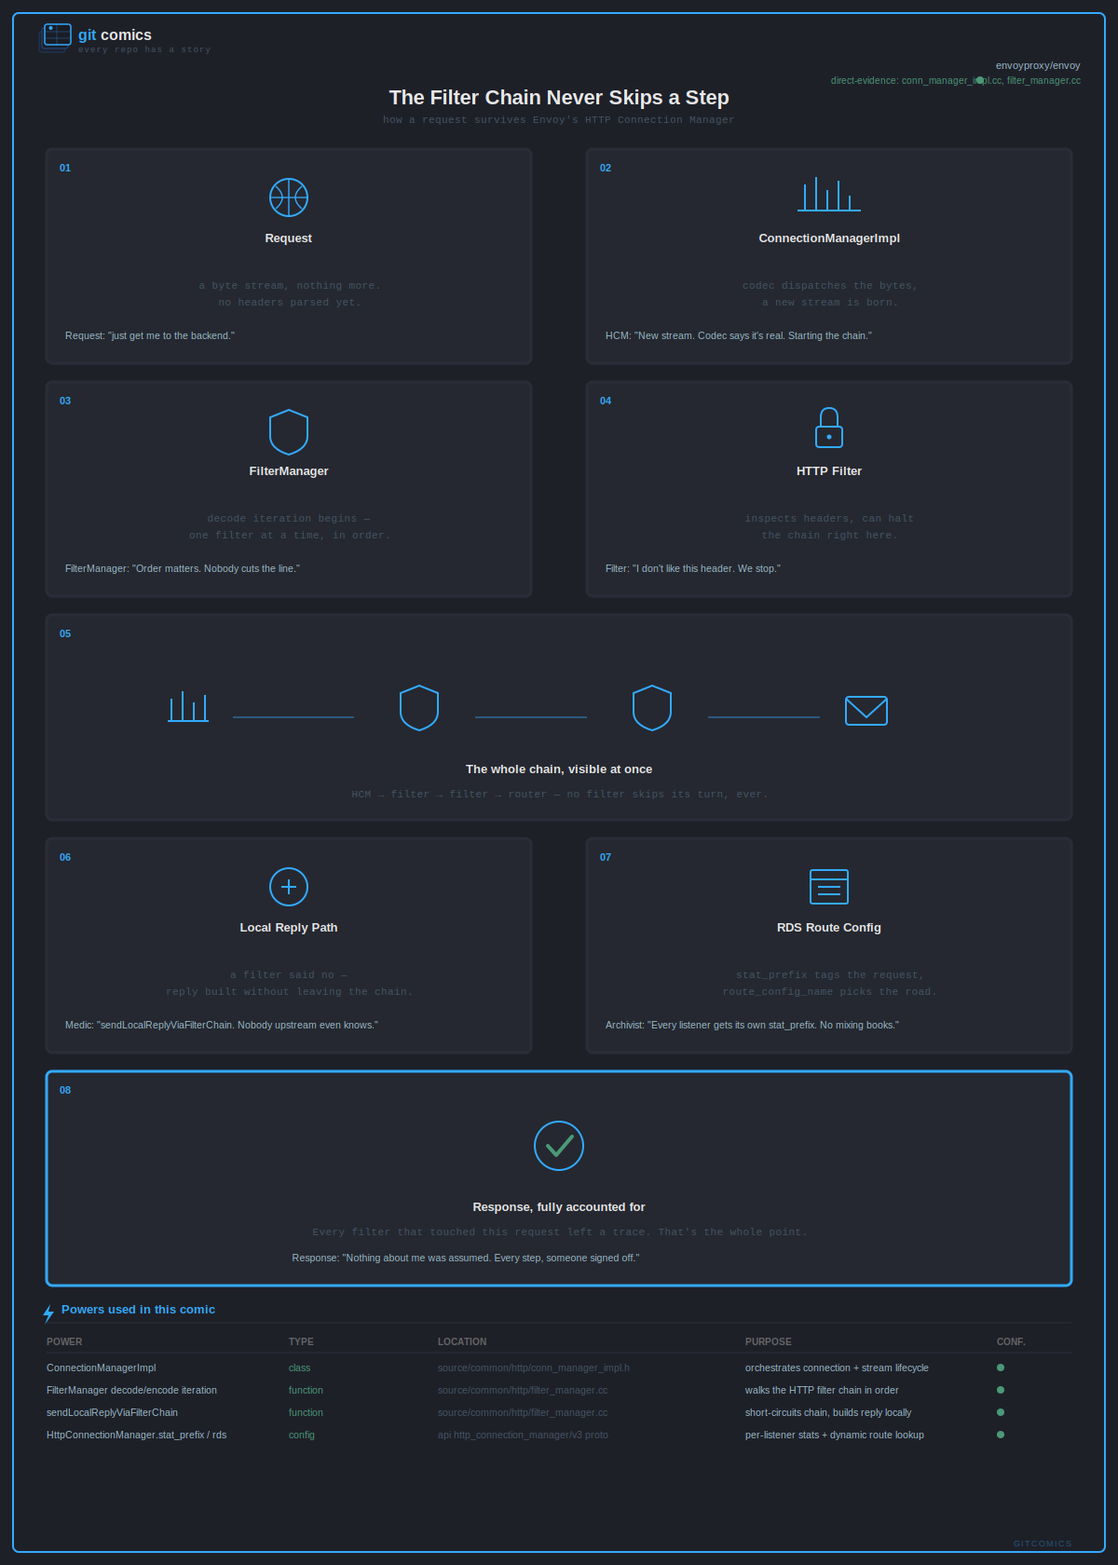
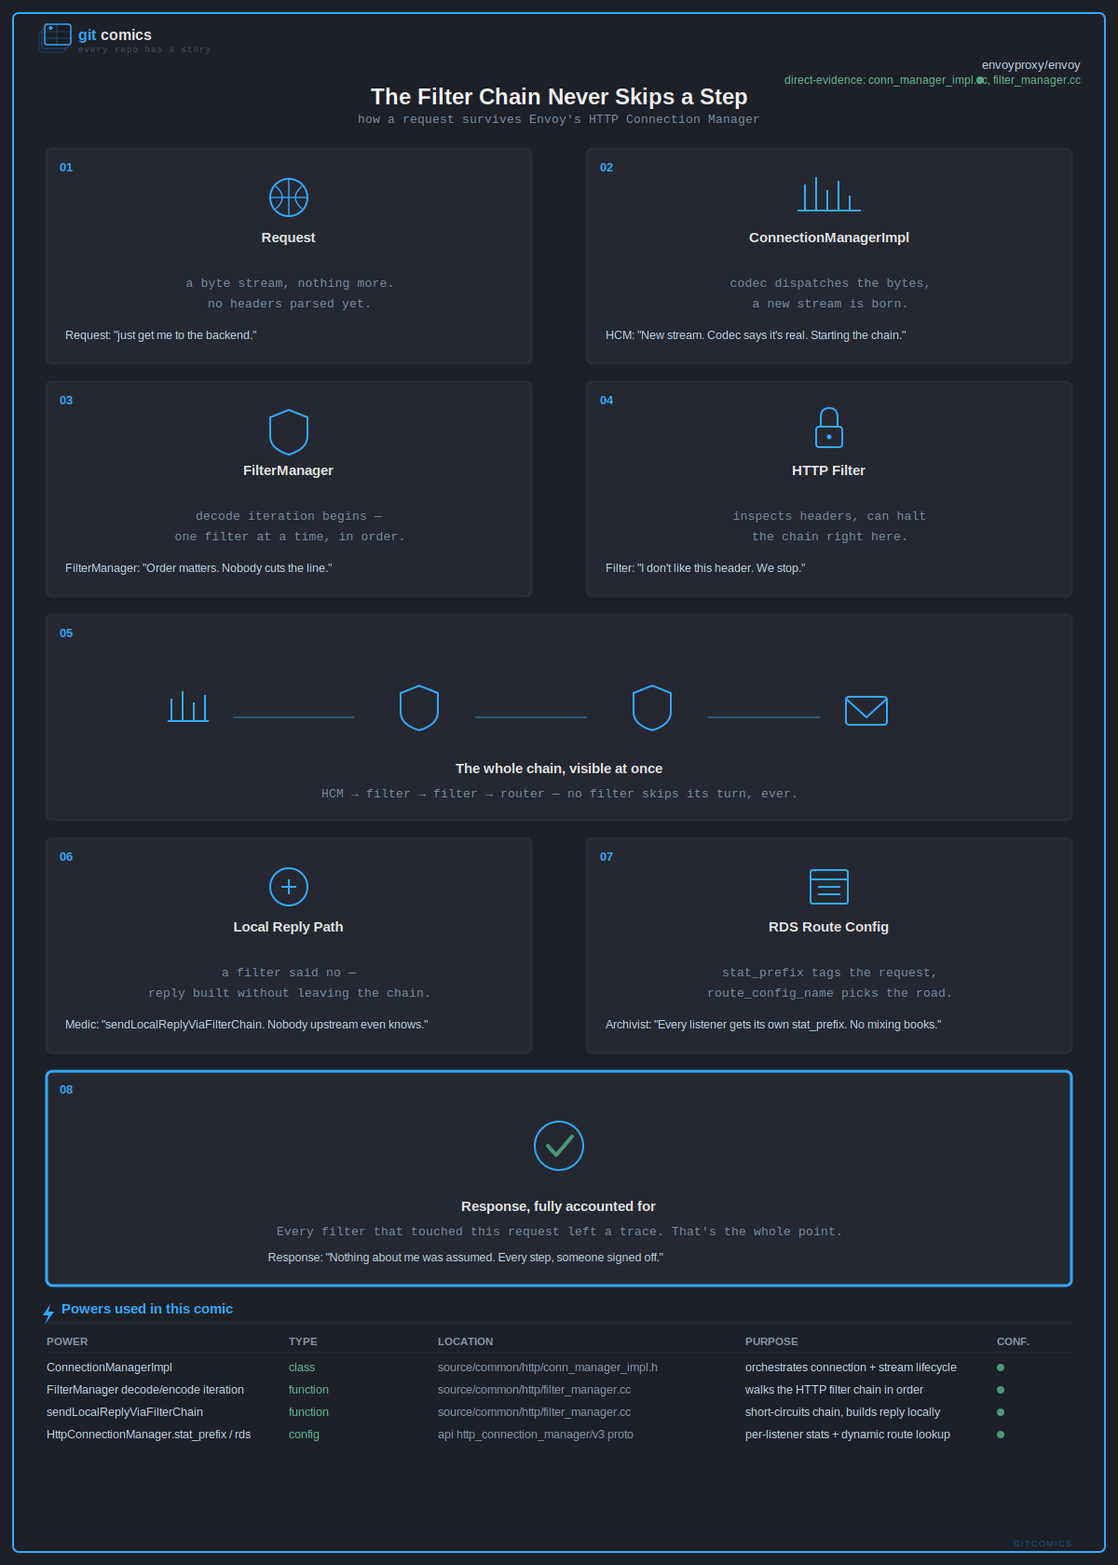
improve comic typography, document example file usage in README

diff --git a/examples/envoy_comic.html b/examples/envoy_comic.html
@@ -7,7 +7,7 @@
   body { margin:0; padding:32px; background:#12141a; display:flex; flex-direction:column; align-items:center; font-family:Arial,Helvetica,sans-serif; }
   .comic-frame { max-width:900px; width:100%; box-shadow:0 20px 60px rgba(0,0,0,0.5); border-radius:8px; overflow:hidden; }
   .comic-frame svg { width:100%; height:auto; display:block; }
-  footer { color:#445566; font-size:11px; margin-top:16px; font-family:'Courier New',monospace; }
+  footer { color:#8899aa; font-size:12px; margin-top:16px; font-family:'Courier New',monospace; }
 </style>
 </head>
 <body>
@@ -43,13 +43,13 @@
 
   <!-- Meta tags -->
   <g transform="translate(0,74)" font-family="Arial,Helvetica,sans-serif">
-    <text x="1160" y="0" text-anchor="end" font-size="11" fill="#9bbccc">envoyproxy/envoy</text>
-    <circle cx="1052" cy="12" r="4" fill="#4a9977"/><text x="1160" y="16" text-anchor="end" font-size="10" fill="#4a9977">direct-evidence: conn_manager_impl.cc, filter_manager.cc</text>
+    <text x="1160" y="0" text-anchor="end" font-size="13" fill="#c3d9e8">envoyproxy/envoy</text>
+    <circle cx="1052" cy="12" r="4" fill="#4a9977"/><text x="1160" y="16" text-anchor="end" font-size="12" fill="#5fbd93">direct-evidence: conn_manager_impl.cc, filter_manager.cc</text>
   </g>
 
   <!-- Title -->
-  <text x="600" y="112" text-anchor="middle" font-size="22" font-weight="800" fill="#e8e8e8">The Filter Chain Never Skips a Step</text>
-  <text x="600" y="132" text-anchor="middle" font-size="11" fill="#445566" font-family="Courier New,monospace">how a request survives Envoy's HTTP Connection Manager</text>
+  <text x="600" y="112" text-anchor="middle" font-size="24" font-weight="800" fill="#f2f2f2">The Filter Chain Never Skips a Step</text>
+  <text x="600" y="132" text-anchor="middle" font-size="13" fill="#7a8fa3" font-family="Courier New,monospace">how a request survives Envoy's HTTP Connection Manager</text>
 
   <!-- ===================== PANEL GRID ===================== -->
   <!-- Grid geometry: 2-col rows for 1-4, full-width row 5, 2-col rows 6-7, full-width row 8 -->
@@ -57,19 +57,19 @@
   <!-- PANEL 1 -->
   <g transform="translate(50,160)">
     <rect width="520" height="230" rx="6" fill="#252830" stroke="#2a2d38" stroke-width="3"/>
-    <text x="14" y="24" font-size="11" fill="#33aaff" font-weight="700">01</text>
+    <text x="14" y="24" font-size="13" fill="#33aaff" font-weight="700">01</text>
     <circle cx="260" cy="52" r="20" fill="none" stroke="#33aaff" stroke-width="2"/>
     <path d="M 240 52 L 280 52 M 260 32 L 260 72 M 246 40 Q 260 52 246 64 M 274 40 Q 260 52 274 64" stroke="#33aaff" stroke-width="1.4" fill="none"/>
-    <text x="260" y="100" text-anchor="middle" font-size="13" fill="#e8e8e8" font-weight="700">Request</text>
-    <text x="260" y="150" text-anchor="middle" font-size="11" fill="#445566" font-family="Courier New,monospace">a byte stream, nothing more.</text>
-    <text x="260" y="168" text-anchor="middle" font-size="11" fill="#445566" font-family="Courier New,monospace">no headers parsed yet.</text>
-    <text x="20" y="204" font-size="10.5" fill="#9bbccc">Request: "just get me to the backend."</text>
+    <text x="260" y="100" text-anchor="middle" font-size="15" fill="#e8e8e8" font-weight="700">Request</text>
+    <text x="260" y="148" text-anchor="middle" font-size="13" fill="#7a8fa3" font-family="Courier New,monospace">a byte stream, nothing more.</text>
+    <text x="260" y="170" text-anchor="middle" font-size="13" fill="#7a8fa3" font-family="Courier New,monospace">no headers parsed yet.</text>
+    <text x="20" y="204" font-size="12.5" fill="#c3d9e8">Request: "just get me to the backend."</text>
   </g>
 
   <!-- PANEL 2 -->
   <g transform="translate(630,160)">
     <rect width="520" height="230" rx="6" fill="#252830" stroke="#2a2d38" stroke-width="3"/>
-    <text x="14" y="24" font-size="11" fill="#33aaff" font-weight="700">02</text>
+    <text x="14" y="24" font-size="13" fill="#33aaff" font-weight="700">02</text>
     <g stroke="#33aaff" stroke-width="2" fill="none">
       <line x1="234" y1="66" x2="234" y2="38"/>
       <line x1="246" y1="66" x2="246" y2="30"/>
@@ -78,40 +78,40 @@
       <line x1="282" y1="66" x2="282" y2="50"/>
       <line x1="226" y1="66" x2="294" y2="66"/>
     </g>
-    <text x="260" y="100" text-anchor="middle" font-size="13" fill="#e8e8e8" font-weight="700">ConnectionManagerImpl</text>
-    <text x="260" y="150" text-anchor="middle" font-size="11" fill="#445566" font-family="Courier New,monospace">codec dispatches the bytes,</text>
-    <text x="260" y="168" text-anchor="middle" font-size="11" fill="#445566" font-family="Courier New,monospace">a new stream is born.</text>
-    <text x="20" y="204" font-size="10.5" fill="#9bbccc">HCM: "New stream. Codec says it's real. Starting the chain."</text>
+    <text x="260" y="100" text-anchor="middle" font-size="15" fill="#e8e8e8" font-weight="700">ConnectionManagerImpl</text>
+    <text x="260" y="148" text-anchor="middle" font-size="13" fill="#7a8fa3" font-family="Courier New,monospace">codec dispatches the bytes,</text>
+    <text x="260" y="170" text-anchor="middle" font-size="13" fill="#7a8fa3" font-family="Courier New,monospace">a new stream is born.</text>
+    <text x="20" y="204" font-size="12.5" fill="#c3d9e8">HCM: "New stream. Codec says it's real. Starting the chain."</text>
   </g>
 
   <!-- PANEL 3 -->
   <g transform="translate(50,410)">
     <rect width="520" height="230" rx="6" fill="#252830" stroke="#2a2d38" stroke-width="3"/>
-    <text x="14" y="24" font-size="11" fill="#33aaff" font-weight="700">03</text>
+    <text x="14" y="24" font-size="13" fill="#33aaff" font-weight="700">03</text>
     <path d="M 260 30 L 280 38 L 280 58 Q 280 72 260 78 Q 240 72 240 58 L 240 38 Z" fill="none" stroke="#33aaff" stroke-width="2"/>
-    <text x="260" y="100" text-anchor="middle" font-size="13" fill="#e8e8e8" font-weight="700">FilterManager</text>
-    <text x="260" y="150" text-anchor="middle" font-size="11" fill="#445566" font-family="Courier New,monospace">decode iteration begins —</text>
-    <text x="260" y="168" text-anchor="middle" font-size="11" fill="#445566" font-family="Courier New,monospace">one filter at a time, in order.</text>
-    <text x="20" y="204" font-size="10.5" fill="#9bbccc">FilterManager: "Order matters. Nobody cuts the line."</text>
+    <text x="260" y="100" text-anchor="middle" font-size="15" fill="#e8e8e8" font-weight="700">FilterManager</text>
+    <text x="260" y="148" text-anchor="middle" font-size="13" fill="#7a8fa3" font-family="Courier New,monospace">decode iteration begins —</text>
+    <text x="260" y="170" text-anchor="middle" font-size="13" fill="#7a8fa3" font-family="Courier New,monospace">one filter at a time, in order.</text>
+    <text x="20" y="204" font-size="12.5" fill="#c3d9e8">FilterManager: "Order matters. Nobody cuts the line."</text>
   </g>
 
   <!-- PANEL 4 -->
   <g transform="translate(630,410)">
     <rect width="520" height="230" rx="6" fill="#252830" stroke="#2a2d38" stroke-width="3"/>
-    <text x="14" y="24" font-size="11" fill="#33aaff" font-weight="700">04</text>
+    <text x="14" y="24" font-size="13" fill="#33aaff" font-weight="700">04</text>
     <rect x="246" y="48" width="28" height="22" rx="3" fill="none" stroke="#33aaff" stroke-width="2"/>
     <path d="M 251 48 L 251 38 Q 251 28 260 28 Q 269 28 269 38 L 269 48" fill="none" stroke="#33aaff" stroke-width="2"/>
     <circle cx="260" cy="59" r="2.5" fill="#33aaff"/>
-    <text x="260" y="100" text-anchor="middle" font-size="13" fill="#e8e8e8" font-weight="700">HTTP Filter</text>
-    <text x="260" y="150" text-anchor="middle" font-size="11" fill="#445566" font-family="Courier New,monospace">inspects headers, can halt</text>
-    <text x="260" y="168" text-anchor="middle" font-size="11" fill="#445566" font-family="Courier New,monospace">the chain right here.</text>
-    <text x="20" y="204" font-size="10.5" fill="#9bbccc">Filter: "I don't like this header. We stop."</text>
+    <text x="260" y="100" text-anchor="middle" font-size="15" fill="#e8e8e8" font-weight="700">HTTP Filter</text>
+    <text x="260" y="148" text-anchor="middle" font-size="13" fill="#7a8fa3" font-family="Courier New,monospace">inspects headers, can halt</text>
+    <text x="260" y="170" text-anchor="middle" font-size="13" fill="#7a8fa3" font-family="Courier New,monospace">the chain right here.</text>
+    <text x="20" y="204" font-size="12.5" fill="#c3d9e8">Filter: "I don't like this header. We stop."</text>
   </g>
 
   <!-- PANEL 5 — WIDE establishing panel -->
   <g transform="translate(50,660)">
     <rect width="1100" height="220" rx="6" fill="#252830" stroke="#2a2d38" stroke-width="3"/>
-    <text x="14" y="24" font-size="11" fill="#33aaff" font-weight="700">05</text>
+    <text x="14" y="24" font-size="13" fill="#33aaff" font-weight="700">05</text>
     <!-- HCM icon -->
     <g stroke="#33aaff" stroke-width="2" fill="none" transform="translate(150,90)">
       <line x1="-16" y1="24" x2="-16" y2="0"/><line x1="-4" y1="24" x2="-4" y2="-8"/>
@@ -130,88 +130,88 @@
     <line x1="200" y1="110" x2="330" y2="110" stroke="#33aaff" stroke-width="1.5" opacity="0.5"/>
     <line x1="460" y1="110" x2="580" y2="110" stroke="#33aaff" stroke-width="1.5" opacity="0.5"/>
     <line x1="710" y1="110" x2="830" y2="110" stroke="#33aaff" stroke-width="1.5" opacity="0.5"/>
-    <text x="550" y="170" text-anchor="middle" font-size="13" fill="#e8e8e8" font-weight="700">The whole chain, visible at once</text>
-    <text x="550" y="196" text-anchor="middle" font-size="11" fill="#445566" font-family="Courier New,monospace">HCM → filter → filter → router — no filter skips its turn, ever.</text>
+    <text x="550" y="170" text-anchor="middle" font-size="15" fill="#e8e8e8" font-weight="700">The whole chain, visible at once</text>
+    <text x="550" y="196" text-anchor="middle" font-size="13" fill="#7a8fa3" font-family="Courier New,monospace">HCM → filter → filter → router — no filter skips its turn, ever.</text>
   </g>
 
   <!-- PANEL 6 -->
   <g transform="translate(50,900)">
     <rect width="520" height="230" rx="6" fill="#252830" stroke="#2a2d38" stroke-width="3"/>
-    <text x="14" y="24" font-size="11" fill="#33aaff" font-weight="700">06</text>
+    <text x="14" y="24" font-size="13" fill="#33aaff" font-weight="700">06</text>
     <g stroke="#33aaff" stroke-width="2" fill="none">
       <circle cx="260" cy="52" r="20"/>
       <line x1="252" y1="52" x2="268" y2="52"/>
       <line x1="260" y1="44" x2="260" y2="60"/>
     </g>
-    <text x="260" y="100" text-anchor="middle" font-size="13" fill="#e8e8e8" font-weight="700">Local Reply Path</text>
-    <text x="260" y="150" text-anchor="middle" font-size="11" fill="#445566" font-family="Courier New,monospace">a filter said no —</text>
-    <text x="260" y="168" text-anchor="middle" font-size="11" fill="#445566" font-family="Courier New,monospace">reply built without leaving the chain.</text>
-    <text x="20" y="204" font-size="10.5" fill="#9bbccc">Medic: "sendLocalReplyViaFilterChain. Nobody upstream even knows."</text>
+    <text x="260" y="100" text-anchor="middle" font-size="15" fill="#e8e8e8" font-weight="700">Local Reply Path</text>
+    <text x="260" y="148" text-anchor="middle" font-size="13" fill="#7a8fa3" font-family="Courier New,monospace">a filter said no —</text>
+    <text x="260" y="170" text-anchor="middle" font-size="13" fill="#7a8fa3" font-family="Courier New,monospace">reply built without leaving the chain.</text>
+    <text x="20" y="204" font-size="12.5" fill="#c3d9e8">Medic: "sendLocalReplyViaFilterChain. Nobody upstream even knows."</text>
   </g>
 
   <!-- PANEL 7 -->
   <g transform="translate(630,900)">
     <rect width="520" height="230" rx="6" fill="#252830" stroke="#2a2d38" stroke-width="3"/>
-    <text x="14" y="24" font-size="11" fill="#33aaff" font-weight="700">07</text>
+    <text x="14" y="24" font-size="13" fill="#33aaff" font-weight="700">07</text>
     <g stroke="#33aaff" stroke-width="2" fill="none">
       <rect x="240" y="34" width="40" height="36" rx="2"/>
       <line x1="240" y1="44" x2="280" y2="44"/>
       <line x1="248" y1="52" x2="272" y2="52"/>
       <line x1="248" y1="60" x2="272" y2="60"/>
     </g>
-    <text x="260" y="100" text-anchor="middle" font-size="13" fill="#e8e8e8" font-weight="700">RDS Route Config</text>
-    <text x="260" y="150" text-anchor="middle" font-size="11" fill="#445566" font-family="Courier New,monospace">stat_prefix tags the request,</text>
-    <text x="260" y="168" text-anchor="middle" font-size="11" fill="#445566" font-family="Courier New,monospace">route_config_name picks the road.</text>
-    <text x="20" y="204" font-size="10.5" fill="#9bbccc">Archivist: "Every listener gets its own stat_prefix. No mixing books."</text>
+    <text x="260" y="100" text-anchor="middle" font-size="15" fill="#e8e8e8" font-weight="700">RDS Route Config</text>
+    <text x="260" y="148" text-anchor="middle" font-size="13" fill="#7a8fa3" font-family="Courier New,monospace">stat_prefix tags the request,</text>
+    <text x="260" y="170" text-anchor="middle" font-size="13" fill="#7a8fa3" font-family="Courier New,monospace">route_config_name picks the road.</text>
+    <text x="20" y="204" font-size="12.5" fill="#c3d9e8">Archivist: "Every listener gets its own stat_prefix. No mixing books."</text>
   </g>
 
   <!-- PANEL 8 — resolution, wide -->
   <g transform="translate(50,1150)">
     <rect width="1100" height="230" rx="6" fill="#252830" stroke="#33aaff" stroke-width="3"/>
-    <text x="14" y="24" font-size="11" fill="#33aaff" font-weight="700">08</text>
+    <text x="14" y="24" font-size="13" fill="#33aaff" font-weight="700">08</text>
     <g stroke="#4a9977" stroke-width="4" fill="none" stroke-linecap="round" stroke-linejoin="round">
       <circle cx="550" cy="80" r="26" stroke="#33aaff" stroke-width="2"/>
       <path d="M 538 80 L 547 90 L 564 70"/>
     </g>
-    <text x="550" y="150" text-anchor="middle" font-size="13" fill="#e8e8e8" font-weight="700">Response, fully accounted for</text>
-    <text x="550" y="176" text-anchor="middle" font-size="11" fill="#445566" font-family="Courier New,monospace">Every filter that touched this request left a trace. That's the whole point.</text>
-    <text x="450" y="204" font-size="10.5" fill="#9bbccc" text-anchor="middle">Response: "Nothing about me was assumed. Every step, someone signed off."</text>
+    <text x="550" y="150" text-anchor="middle" font-size="15" fill="#e8e8e8" font-weight="700">Response, fully accounted for</text>
+    <text x="550" y="176" text-anchor="middle" font-size="13" fill="#7a8fa3" font-family="Courier New,monospace">Every filter that touched this request left a trace. That's the whole point.</text>
+    <text x="450" y="204" font-size="12.5" fill="#c3d9e8" text-anchor="middle">Response: "Nothing about me was assumed. Every step, someone signed off."</text>
   </g>
 
   <!-- ===================== POWERS MANIFEST (bottom, outside panel grid) ===================== -->
   <g transform="translate(50,1410)">
-    <path d="M 4 -10 L -4 2 L 2 2 L -2 12 L 8 -2 L 2 -2 Z" fill="#33aaff"/><text x="16" y="0" font-size="13" font-weight="700" fill="#33aaff">Powers used in this comic</text>
+    <path d="M 4 -10 L -4 2 L 2 2 L -2 12 L 8 -2 L 2 -2 Z" fill="#33aaff"/><text x="16" y="0" font-size="15" font-weight="700" fill="#33aaff">Powers used in this comic</text>
     <line x1="0" y1="10" x2="1100" y2="10" stroke="#2a2d38" stroke-width="1"/>
 
-    <text x="0" y="34" font-size="10" fill="#666" font-weight="700">POWER</text>
-    <text x="260" y="34" font-size="10" fill="#666" font-weight="700">TYPE</text>
-    <text x="420" y="34" font-size="10" fill="#666" font-weight="700">LOCATION</text>
-    <text x="750" y="34" font-size="10" fill="#666" font-weight="700">PURPOSE</text>
-    <text x="1020" y="34" font-size="10" fill="#666" font-weight="700">CONF.</text>
+    <text x="0" y="34" font-size="11.5" fill="#8899aa" font-weight="700">POWER</text>
+    <text x="260" y="34" font-size="11.5" fill="#8899aa" font-weight="700">TYPE</text>
+    <text x="420" y="34" font-size="11.5" fill="#8899aa" font-weight="700">LOCATION</text>
+    <text x="750" y="34" font-size="11.5" fill="#8899aa" font-weight="700">PURPOSE</text>
+    <text x="1020" y="34" font-size="11.5" fill="#8899aa" font-weight="700">CONF.</text>
     <line x1="0" y1="42" x2="1100" y2="42" stroke="#2a2d38" stroke-width="1"/>
 
-    <text x="0" y="62" font-size="10.5" fill="#9bbccc">ConnectionManagerImpl</text>
-    <text x="260" y="62" font-size="10.5" fill="#4a9977">class</text>
-    <text x="420" y="62" font-size="10.5" fill="#445566">source/common/http/conn_manager_impl.h</text>
-    <text x="750" y="62" font-size="10.5" fill="#9bbccc">orchestrates connection + stream lifecycle</text>
+    <text x="0" y="62" font-size="12.5" fill="#c3d9e8">ConnectionManagerImpl</text>
+    <text x="260" y="62" font-size="12.5" fill="#5fbd93">class</text>
+    <text x="420" y="62" font-size="12.5" fill="#8899aa">source/common/http/conn_manager_impl.h</text>
+    <text x="750" y="62" font-size="12.5" fill="#c3d9e8">orchestrates connection + stream lifecycle</text>
     <circle cx="1024" cy="58" r="4" fill="#4a9977"/>
 
-    <text x="0" y="86" font-size="10.5" fill="#9bbccc">FilterManager decode/encode iteration</text>
-    <text x="260" y="86" font-size="10.5" fill="#4a9977">function</text>
-    <text x="420" y="86" font-size="10.5" fill="#445566">source/common/http/filter_manager.cc</text>
-    <text x="750" y="86" font-size="10.5" fill="#9bbccc">walks the HTTP filter chain in order</text>
+    <text x="0" y="86" font-size="12.5" fill="#c3d9e8">FilterManager decode/encode iteration</text>
+    <text x="260" y="86" font-size="12.5" fill="#5fbd93">function</text>
+    <text x="420" y="86" font-size="12.5" fill="#8899aa">source/common/http/filter_manager.cc</text>
+    <text x="750" y="86" font-size="12.5" fill="#c3d9e8">walks the HTTP filter chain in order</text>
     <circle cx="1024" cy="82" r="4" fill="#4a9977"/>
 
-    <text x="0" y="110" font-size="10.5" fill="#9bbccc">sendLocalReplyViaFilterChain</text>
-    <text x="260" y="110" font-size="10.5" fill="#4a9977">function</text>
-    <text x="420" y="110" font-size="10.5" fill="#445566">source/common/http/filter_manager.cc</text>
-    <text x="750" y="110" font-size="10.5" fill="#9bbccc">short-circuits chain, builds reply locally</text>
+    <text x="0" y="110" font-size="12.5" fill="#c3d9e8">sendLocalReplyViaFilterChain</text>
+    <text x="260" y="110" font-size="12.5" fill="#5fbd93">function</text>
+    <text x="420" y="110" font-size="12.5" fill="#8899aa">source/common/http/filter_manager.cc</text>
+    <text x="750" y="110" font-size="12.5" fill="#c3d9e8">short-circuits chain, builds reply locally</text>
     <circle cx="1024" cy="106" r="4" fill="#4a9977"/>
 
-    <text x="0" y="134" font-size="10.5" fill="#9bbccc">HttpConnectionManager.stat_prefix / rds</text>
-    <text x="260" y="134" font-size="10.5" fill="#4a9977">config</text>
-    <text x="420" y="134" font-size="10.5" fill="#445566">api http_connection_manager/v3 proto</text>
-    <text x="750" y="134" font-size="10.5" fill="#9bbccc">per-listener stats + dynamic route lookup</text>
+    <text x="0" y="134" font-size="12.5" fill="#c3d9e8">HttpConnectionManager.stat_prefix / rds</text>
+    <text x="260" y="134" font-size="12.5" fill="#5fbd93">config</text>
+    <text x="420" y="134" font-size="12.5" fill="#8899aa">api http_connection_manager/v3 proto</text>
+    <text x="750" y="134" font-size="12.5" fill="#c3d9e8">per-listener stats + dynamic route lookup</text>
     <circle cx="1024" cy="130" r="4" fill="#4a9977"/>
   </g>
 

diff --git a/SKILL.md b/SKILL.md
@@ -510,9 +510,27 @@ SVG requirements:
 - All coordinates explicit
 - No external CSS dependencies
 - No browser-specific layout
-- No system-dependent emoji for layout-critical content
+- No system-dependent emoji for layout-critical content — use drawn vector
+  icons (paths, circles, rects) instead of emoji characters, since emoji
+  rendering is unreliable across SVG rasterizers (many render as blank
+  tofu boxes)
 - Fonts: prefer safe system fonts with good fallbacks
 - Use SVG rect, path, circle, line, text, g primitives
+
+MINIMUM FONT SIZES (mandatory — comics are shared and viewed at various
+sizes, so text must stay legible even when scaled down):
+- Panel title (character/component name): 15px minimum
+- Panel caption / scene description: 13px minimum
+- Dialogue: 12.5px minimum
+- Powers manifest table cells: 12.5px minimum, headers 11.5px minimum
+- Main comic title: 22px minimum
+- Main comic subtitle: 13px minimum
+- Only the publisher stamp and brand tagline may go smaller (9-10px),
+  since they are deliberately understated branding, not content the
+  reader needs to parse.
+
+Never ship a comic where caption or dialogue text is smaller than 12px —
+it will be unreadable once the PNG is scaled down for a social post.
 
 ---
 
@@ -558,10 +576,16 @@ Background: #1e2028 (deep slate)
 Panel fill: #252830
 Panel border: #2a2d38
 Accent: #33aaff (cyan)
-Success: #4a9977 (green)
-Caption text: #445566
-Dialogue text: #9bbccc
-Code/mono text: #4a9977
+Success: #4a9977 (green) — for legibility in text use the brighter tint #5fbd93
+Caption text: #7a8fa3 (must stay readable against #252830 — do not use
+  colors darker than this for caption text; #445566 and similar dark
+  grays fail contrast once a PNG is compressed or viewed at social-post
+  size, and are reserved only for the deliberately understated brand
+  tagline/publisher stamp, never for panel content)
+Dialogue text: #c3d9e8 (brighter than caption text — dialogue is the
+  most-read line in a panel and should stand out clearly)
+Code/mono text: #5fbd93
+
 Title text: #e8e8e8
 
 Every visual element must contribute to:
@@ -715,6 +739,10 @@ Rendering:
 - [ ] Publisher stamp is outside the panel grid
 - [ ] No essential visual depends on OS-specific emoji rendering
 - [ ] SVG is the only visual source of truth
+- [ ] Caption text is 13px or larger, dialogue is 12.5px or larger
+- [ ] No panel content uses colors darker than #7a8fa3 for text
+- [ ] Text is legible when the PNG is viewed at ~600px wide (typical
+      social-post scale) — zoom out and check before shipping
 
 ---
 

diff --git a/README.md b/README.md
@@ -10,6 +10,24 @@ Turn any GitHub repository into an 8-panel comic strip. Shareable PNG. Interacti
 
 *envoyproxy/envoy — "The Filter Chain Never Skips a Step." Every claim in this comic traces back to a real file: `conn_manager_impl.cc`, `filter_manager.cc`, and the HTTP connection manager proto.*
 
+Each example ships as three files:
+
+| File | What it's for |
+|---|---|
+| `examples/envoy_comic.png` | The shareable image — post it on X, Reddit, Slack, or embed it anywhere a normal image works. |
+| `examples/envoy_comic.html` | An interactive version of the same comic — open it in any browser (double-click the file, or drag it into a browser tab) to view it larger and read the Powers manifest at the bottom. |
+| `examples/envoy_comic.svg` | The canonical vector source both the PNG and HTML are generated from — edit this if you want to tweak colors, text, or panel layout by hand. |
+
+To view the HTML locally after cloning the repo:
+
+```bash
+open examples/envoy_comic.html        # macOS
+xdg-open examples/envoy_comic.html    # Linux
+start examples/envoy_comic.html       # Windows
+```
+
+Or just navigate to the file in GitHub and click **"View raw"** — GitHub doesn't render HTML inline, so download it or clone the repo to view it properly in a browser.
+
 ## How to use
 
 ### Quickstart (claude.ai)
